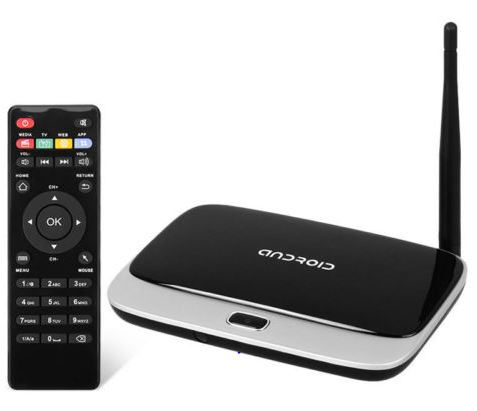
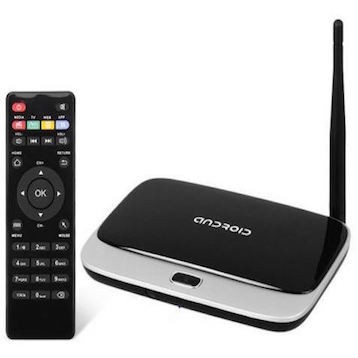
changed product page

diff --git a/partials/products.html b/partials/products.html
@@ -1,6 +1,6 @@
 <!-- PRODUCTS -->
 <!-- CART -->
-<div class="container-fluid" id="front-page-products" ng-controller="myCtrl" >
+<div class="container-fluid w3-text-theme" id="front-page-products" ng-controller="myCtrl" >
 <div class="row">
     <div class="col-xs-offset-8 col-xs-4">
       <div class="shoppingCartStatus">
@@ -16,38 +16,21 @@
 </div>
       <hr />
            <!-- <h3>Add to Cart <span>(ngcart-addtocart)</span></h3> -->
-<div class="row">
-  <div class="products">
-    <div class="col-xs-12 col-sm-4" ng-repeat="product in products">
-      <div class="product_name">
-      <span class="title">{{product.name}}</span>
-      </div>
-      <a href="#/details/{{products.indexOf(product)}}">
-        <div class="product_image">
-          <div class="container-fluid">
-            <img class= "homePageImage" ng-src="{{product.image}}">
-          </div>
-        </div>
-      </a>
-      <div class="product_buttons">
-        <ul class="buttons">
-          <li>
-        <div class="product_price">
-          <p class="price" style="top: -40px;">{{product.price | currency}}</p>
-        </div>
-      </li>
-      <li>
-        <div class="product_cart_button">
-          <ngcart-addtocart id="{{product.name}}" name="{{product.name}}" price="{{product.price}}" quantity="1" quantity-max = "5">
-          Add to Cart
-          </ngcart-addtocart>
-        </div>
-      </li>
-      </ul>
-      </div>
+<section class="productz" >
+  <div class="product-card" ng-repeat="product in products">
+    <div class="product-image">
+      <a href="#/details/{{products.indexOf(product)}}"><img ng-src="{{product.image}}"/></a>
+    </div>
+    <div class="product-info">
+      <h5>{{product.name}}</h5>
+      <h6>{{product.price | currency}}</h6>
+    </div>
+    <div class="product-button">
+      <ngcart-addtocart id="{{product.name}}" name="{{product.name}}" price="{{product.price}}" quantity="1" quantity-max = "5">
+      Add to Cart
+      </ngcart-addtocart>
     </div>
   </div>
-
-</div>
-          <a href="#home/cart">Cart</a>
+  <!-- product card close -->
+</section>
 </div>

diff --git a/index.html b/index.html
@@ -10,6 +10,7 @@
   <link href='https://fonts.googleapis.com/css?family=Merriweather' rel='stylesheet' type='text/css'>
   <link rel="stylesheet" href="css/styles.css">
   <link rel="stylesheet" href="css/home.css">
+  <link rel="stylesheet" href="css/products.css">
   <link rel="stylesheet" href="/css/color-theme.css">
   <title>Tech Kingdom</title>
 </head>
@@ -44,9 +45,6 @@
         </nav>
       </header>
   </nav>
-
-  <div ng-view></div>
-
 
         <!--  TEMPALATES -->
         <!--  TEMPALATES -->
@@ -131,7 +129,7 @@
                     <select name="quantity" id="quantity" ng-model="q"
                             ng-options=" v for v in qtyOpt"></select>
                 </span>
-                <a class="btn btn-sm btn-primary"
+                <a class="btn btn-sm btn-primary w3-theme-l2 w3-hover-theme"
                    ng-click="ngCart.addItem(id, name, price, q, data)"
                    ng-transclude></a>
             </div>
@@ -171,10 +169,9 @@
 
         </script>
 
-</div>
+<div ng-view></div>
   <!-- EXTRA INFO SECTION -->
-  <footer>
-    <div class="container-fluid w3-theme">
+    <div class="container-fluid w3-theme" style="position: relative; margin-top: 15%; margin-bottom: 0;">
       <div class="row">
         <div class="col-xs-3">
           <h6>Our Store</h6>
@@ -192,8 +189,7 @@
         </div>
       </div>
     </div>
-
-  </footer>
+</div>
 
 
 

diff --git a/js/app.js b/js/app.js
@@ -46,7 +46,7 @@ app.controller ('myCtrl', ['$scope', '$http', 'ngCart', '$routeParams', function
     },
     {
       name:"Android TV Box",
-      image: "./images/4.jpg",
+      image: "./images/android.png",
       price: 150,
       description: "TVonline+ is our premium IPTV/OTT Android set top box. With our manufacturing business in Honk Kong, R&D business in Korea and a sales office in Toronto, Canada and Los Angeles, USA. Over the past couple of years, we have put together a dedicated team that specializes in the design production and maintenance of our hardware and middleware support for the IPTV/OTT set top boxes we manufacture. We target operators in the market who use and provide dedicated over IP-based networks (IPTV, OTT, VOD). This device comes pre-loaded with our Nova Middleware for easy convenience and deployment for the end-user. With more ram, strong processor it allows you to enhance the velocity of the set top box. The benefits of HEVC technology used in TVonline+ is that it requires smaller network bandwidth for provision of high quality video. TVonline+ comes equipped with a built-in WiFi and the ability to turn the STB into a internet hotspot.",
       productInfo:{  CPU: "Rockchip RK3128t Quad Core ARM Cortex A7 1.3 GHz",

diff --git a/css/styles.css b/css/styles.css
@@ -17,7 +17,7 @@ div.cf{
 }
 
 .fa{
-  color: rgb(237, 59, 59);
+  color: #3010d1;
 }
 img.homePageImage {
     width: 100%;
@@ -145,11 +145,15 @@ div.products{
   position: relative;
   margin: 0 20px;
   text-align: center;
+  overflow: hidden;
 }
 span.title{
   font-size: 18px;
   font-weight: 800;
 
+}
+section{
+  overflow: hidden;
 }
 div.product_image{
   height: 245px;
@@ -163,9 +167,9 @@ ul.buttons{
 div.product_cart_button{
   padding: 10px;
 }
+
 div.product_price{
   border-radius: 50%;
-  background-color: rgba(181, 7, 7, 0.85);
   display: block;
   color: #fff;
   height: 80px;
@@ -203,6 +207,7 @@ div.productLogo{
 
 ul{
   list-style: none;
+  overflow: hidden;
 }
 /*ul.carousel-images{
   width: 1000px;
@@ -421,10 +426,11 @@ span.feature {
   text-align: left;
 }
 
-/*footer{
+footer{
   position: relative;
-  top: 300px;
-}*/
+  margin-top: 15%;
+  margin-bottom: 0;
+}
 
 /*// Product Page //*/
 

diff --git a/css/products.css b/css/products.css
@@ -1,0 +1,36 @@
+.productz {
+  display: flex;
+  flex-wrap: wrap;
+}
+
+.product-card {
+  padding: 2%;
+  /*flex-grow: 1;
+  flex-basis: 29%;*/
+  flex: 1 29%;
+}
+
+.product-image img {
+  max-width: 100%;
+}
+
+.product-info {
+  margin-top: auto;
+}
+
+.product-cart {
+  margin-top: auto;
+}
+
+@media (max-width: 480px) {
+  .product-card {
+    flex: 1 96%;
+  }
+};
+
+@media (min-width: 481px) {
+  .product-image img {
+    max-width: 100%;
+    max-height: 100%;
+  }
+}
